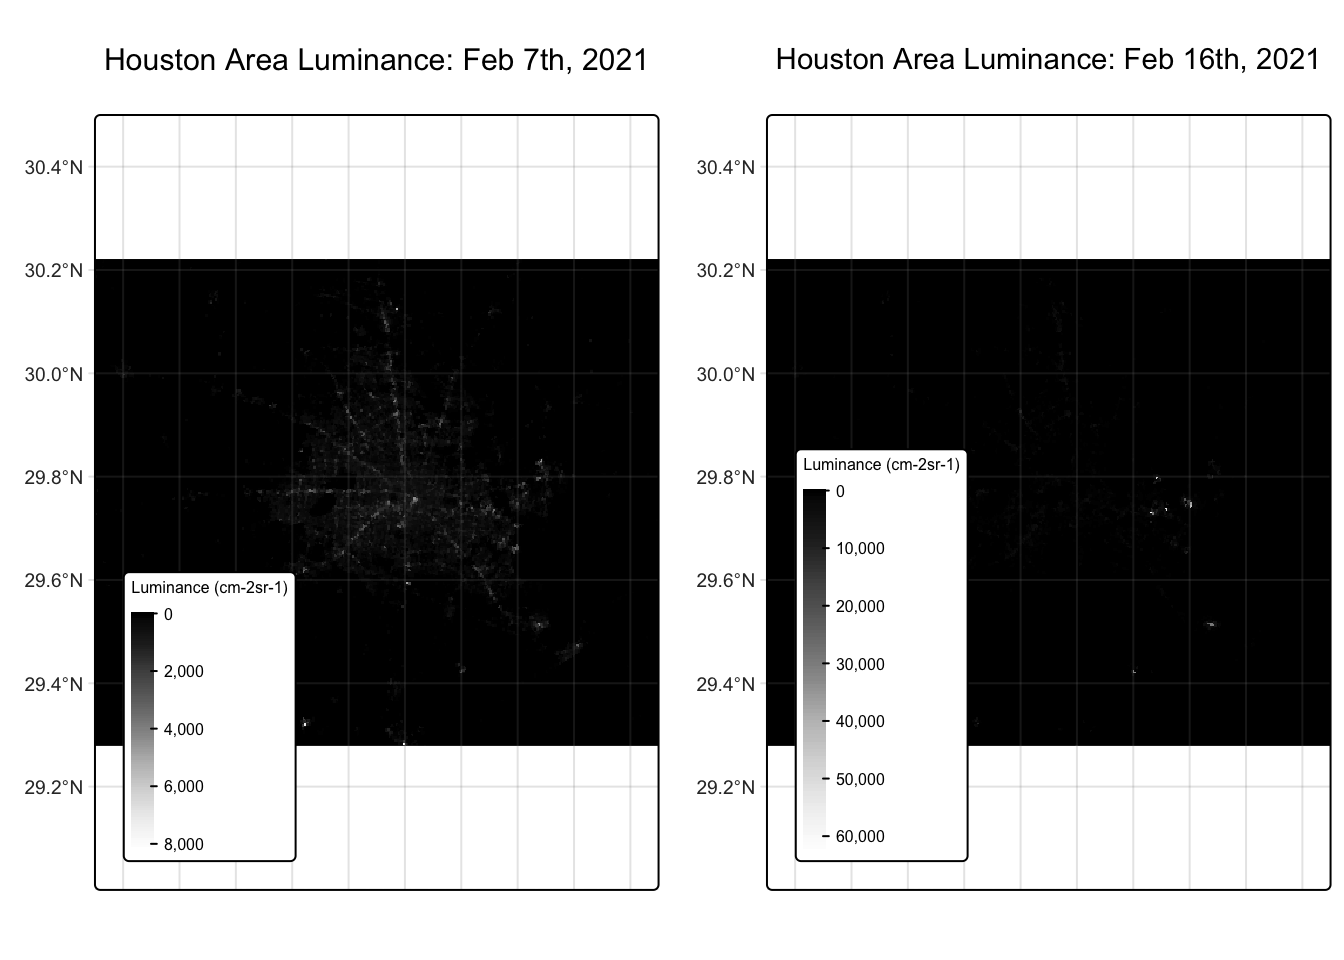
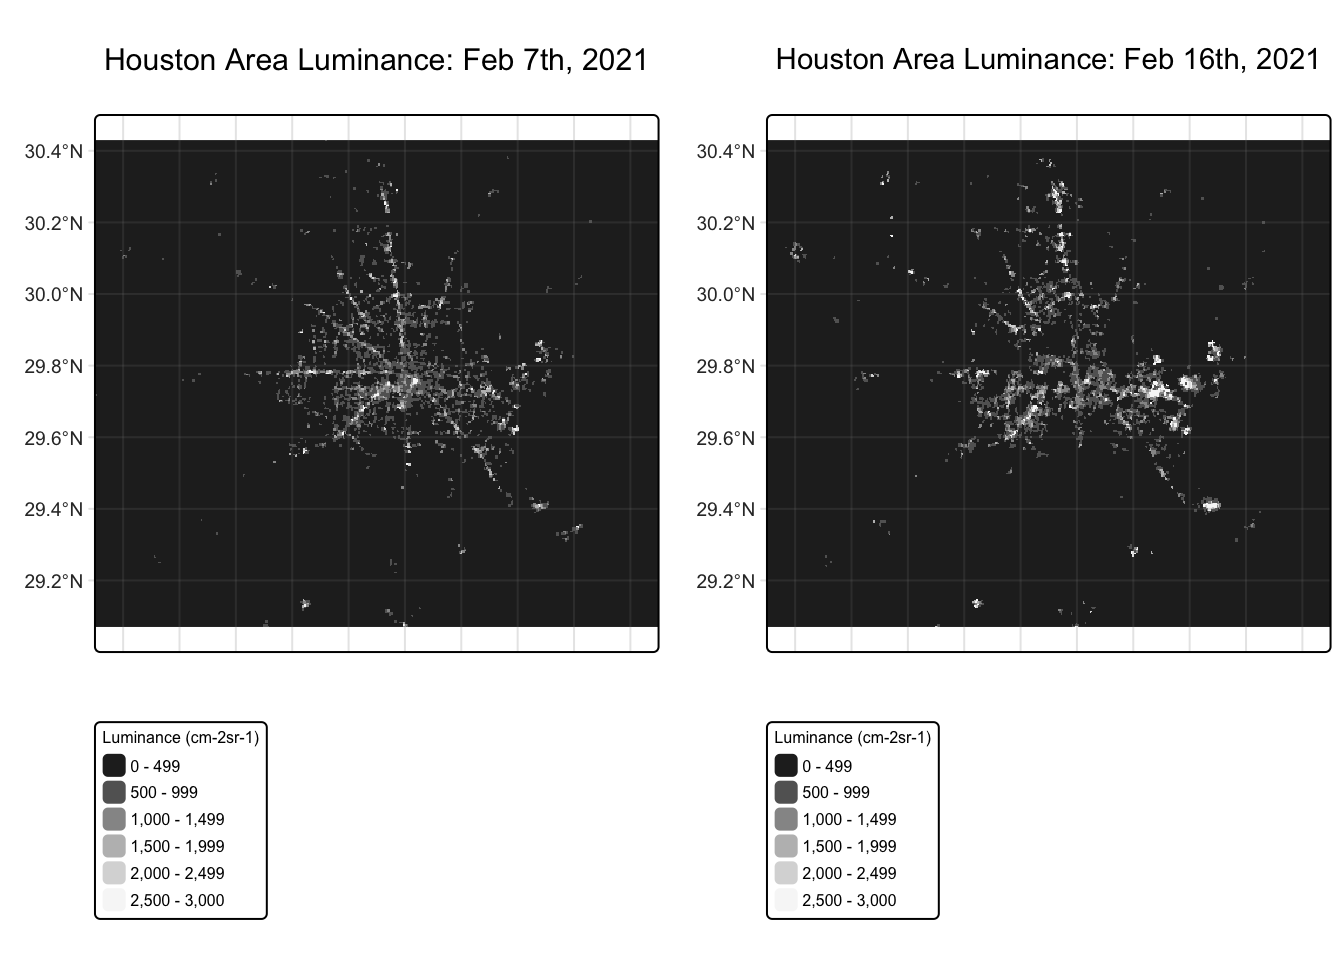
Edits for 223 blog post

diff --git a/docs/posts/2025-12-01-eds223/index.html b/docs/posts/2025-12-01-eds223/index.html
@@ -300,33 +300,32 @@ div.csl-indent {
 <div class="cell">
 <details class="code-fold">
 <summary>Code</summary>
-<div class="code-copy-outer-scaffold"><div class="sourceCode cell-code" id="cb3"><pre class="sourceCode r code-with-copy"><code class="sourceCode r"><span id="cb3-1"><a href="#cb3-1" aria-hidden="true" tabindex="-1"></a><span class="co"># Create plot of Feb 7th light raster- before storm</span></span>
-<span id="cb3-2"><a href="#cb3-2" aria-hidden="true" tabindex="-1"></a>before_lights <span class="ot">&lt;-</span> <span class="fu">tm_shape</span>(lights_2021_02_07) <span class="sc">+</span></span>
-<span id="cb3-3"><a href="#cb3-3" aria-hidden="true" tabindex="-1"></a>  <span class="fu">tm_raster</span>(<span class="at">col.scale =</span> tmap<span class="sc">::</span><span class="fu">tm_scale_continuous</span>(</span>
-<span id="cb3-4"><a href="#cb3-4" aria-hidden="true" tabindex="-1"></a>    <span class="at">values =</span> <span class="st">"-brewer.Greys"</span>),</span>
-<span id="cb3-5"><a href="#cb3-5" aria-hidden="true" tabindex="-1"></a>    <span class="at">col.legend =</span> tmap<span class="sc">::</span><span class="fu">tm_legend</span>(</span>
-<span id="cb3-6"><a href="#cb3-6" aria-hidden="true" tabindex="-1"></a>      <span class="at">title =</span> <span class="st">"Luminance (cm-2sr-1)"</span>,</span>
-<span id="cb3-7"><a href="#cb3-7" aria-hidden="true" tabindex="-1"></a>      <span class="at">position =</span> tmap<span class="sc">::</span><span class="fu">tm_pos_in</span>(<span class="st">"left"</span>, <span class="st">"bottom"</span>))</span>
-<span id="cb3-8"><a href="#cb3-8" aria-hidden="true" tabindex="-1"></a>    ) <span class="sc">+</span></span>
-<span id="cb3-9"><a href="#cb3-9" aria-hidden="true" tabindex="-1"></a>  <span class="fu">tm_title</span>(<span class="at">text =</span> <span class="st">"Houston Area Luminance: Feb 7th, 2021"</span>) <span class="sc">+</span></span>
-<span id="cb3-10"><a href="#cb3-10" aria-hidden="true" tabindex="-1"></a>  <span class="fu">tm_layout</span>(<span class="at">legend.text.size =</span> <span class="fl">0.5</span>,</span>
-<span id="cb3-11"><a href="#cb3-11" aria-hidden="true" tabindex="-1"></a>            <span class="at">legend.title.size =</span> <span class="fl">0.5</span>) <span class="sc">+</span></span>
-<span id="cb3-12"><a href="#cb3-12" aria-hidden="true" tabindex="-1"></a>  <span class="fu">tm_graticules</span>(<span class="at">alpha =</span> <span class="fl">0.2</span>) </span>
-<span id="cb3-13"><a href="#cb3-13" aria-hidden="true" tabindex="-1"></a></span>
-<span id="cb3-14"><a href="#cb3-14" aria-hidden="true" tabindex="-1"></a><span class="co"># Create plot of Feb 16th light raster- after storm</span></span>
-<span id="cb3-15"><a href="#cb3-15" aria-hidden="true" tabindex="-1"></a>after_lights <span class="ot">&lt;-</span> <span class="fu">tm_shape</span>(lights_2021_02_16) <span class="sc">+</span></span>
-<span id="cb3-16"><a href="#cb3-16" aria-hidden="true" tabindex="-1"></a>  <span class="fu">tm_raster</span>(<span class="at">col.scale =</span> tmap<span class="sc">::</span><span class="fu">tm_scale_continuous</span>(</span>
-<span id="cb3-17"><a href="#cb3-17" aria-hidden="true" tabindex="-1"></a>    <span class="at">values =</span> <span class="st">"-brewer.Greys"</span>),</span>
-<span id="cb3-18"><a href="#cb3-18" aria-hidden="true" tabindex="-1"></a>    <span class="at">col.legend =</span> tmap<span class="sc">::</span><span class="fu">tm_legend</span>(</span>
-<span id="cb3-19"><a href="#cb3-19" aria-hidden="true" tabindex="-1"></a>      <span class="at">title =</span> <span class="st">"Luminance (cm-2sr-1)"</span>,</span>
-<span id="cb3-20"><a href="#cb3-20" aria-hidden="true" tabindex="-1"></a>      <span class="at">position =</span> tmap<span class="sc">::</span><span class="fu">tm_pos_in</span>(<span class="st">"left"</span>, <span class="st">"bottom"</span>))</span>
-<span id="cb3-21"><a href="#cb3-21" aria-hidden="true" tabindex="-1"></a>    ) <span class="sc">+</span></span>
-<span id="cb3-22"><a href="#cb3-22" aria-hidden="true" tabindex="-1"></a>  <span class="fu">tm_title</span>(<span class="at">text =</span> <span class="st">"Houston Area Luminance: Feb 16th, 2021"</span>) <span class="sc">+</span></span>
-<span id="cb3-23"><a href="#cb3-23" aria-hidden="true" tabindex="-1"></a>  <span class="fu">tm_layout</span>(<span class="at">legend.text.size =</span> <span class="fl">0.5</span>,</span>
-<span id="cb3-24"><a href="#cb3-24" aria-hidden="true" tabindex="-1"></a>            <span class="at">legend.title.size =</span> <span class="fl">0.5</span>) <span class="sc">+</span></span>
-<span id="cb3-25"><a href="#cb3-25" aria-hidden="true" tabindex="-1"></a>  <span class="fu">tm_graticules</span>(<span class="at">alpha =</span> <span class="fl">0.2</span>) </span>
-<span id="cb3-26"><a href="#cb3-26" aria-hidden="true" tabindex="-1"></a></span>
-<span id="cb3-27"><a href="#cb3-27" aria-hidden="true" tabindex="-1"></a><span class="fu">tmap_arrange</span>(before_lights, after_lights)</span></code></pre></div><button title="Copy to Clipboard" class="code-copy-button"><i class="bi"></i></button></div>
+<div class="code-copy-outer-scaffold"><div class="sourceCode cell-code" id="cb3"><pre class="sourceCode r code-with-copy"><code class="sourceCode r"><span id="cb3-1"><a href="#cb3-1" aria-hidden="true" tabindex="-1"></a><span class="co"># Create manual breaks for clearer differences</span></span>
+<span id="cb3-2"><a href="#cb3-2" aria-hidden="true" tabindex="-1"></a>breaks <span class="ot">&lt;-</span> <span class="fu">c</span>(<span class="dv">0</span>, <span class="dv">500</span>, <span class="dv">1000</span>, <span class="dv">1500</span>, <span class="dv">2000</span>, <span class="dv">2500</span>, <span class="dv">3000</span>)</span>
+<span id="cb3-3"><a href="#cb3-3" aria-hidden="true" tabindex="-1"></a></span>
+<span id="cb3-4"><a href="#cb3-4" aria-hidden="true" tabindex="-1"></a><span class="co"># Create plot of Feb 7th light raster- before storm</span></span>
+<span id="cb3-5"><a href="#cb3-5" aria-hidden="true" tabindex="-1"></a>before_lights <span class="ot">&lt;-</span> <span class="fu">tm_shape</span>(lights_2021_02_07) <span class="sc">+</span></span>
+<span id="cb3-6"><a href="#cb3-6" aria-hidden="true" tabindex="-1"></a>  <span class="fu">tm_raster</span>(<span class="at">palette =</span> <span class="st">"-Greys"</span>,</span>
+<span id="cb3-7"><a href="#cb3-7" aria-hidden="true" tabindex="-1"></a>            <span class="at">breaks =</span> breaks,</span>
+<span id="cb3-8"><a href="#cb3-8" aria-hidden="true" tabindex="-1"></a>            <span class="at">title =</span> <span class="st">"Luminance (cm-2sr-1)"</span></span>
+<span id="cb3-9"><a href="#cb3-9" aria-hidden="true" tabindex="-1"></a>    ) <span class="sc">+</span></span>
+<span id="cb3-10"><a href="#cb3-10" aria-hidden="true" tabindex="-1"></a>  <span class="fu">tm_title</span>(<span class="at">text =</span> <span class="st">"Houston Area Luminance: Feb 7th, 2021"</span>) <span class="sc">+</span></span>
+<span id="cb3-11"><a href="#cb3-11" aria-hidden="true" tabindex="-1"></a>  <span class="fu">tm_layout</span>(<span class="at">legend.text.size =</span> <span class="fl">0.5</span>,</span>
+<span id="cb3-12"><a href="#cb3-12" aria-hidden="true" tabindex="-1"></a>            <span class="at">legend.title.size =</span> <span class="fl">0.5</span>) <span class="sc">+</span></span>
+<span id="cb3-13"><a href="#cb3-13" aria-hidden="true" tabindex="-1"></a>  <span class="fu">tm_graticules</span>(<span class="at">alpha =</span> <span class="fl">0.2</span>)</span>
+<span id="cb3-14"><a href="#cb3-14" aria-hidden="true" tabindex="-1"></a></span>
+<span id="cb3-15"><a href="#cb3-15" aria-hidden="true" tabindex="-1"></a><span class="co"># Create plot of Feb 16th light raster- after storm</span></span>
+<span id="cb3-16"><a href="#cb3-16" aria-hidden="true" tabindex="-1"></a>after_lights <span class="ot">&lt;-</span> <span class="fu">tm_shape</span>(lights_2021_02_16) <span class="sc">+</span></span>
+<span id="cb3-17"><a href="#cb3-17" aria-hidden="true" tabindex="-1"></a>  <span class="fu">tm_raster</span>(<span class="at">palette =</span> <span class="st">"-Greys"</span>,</span>
+<span id="cb3-18"><a href="#cb3-18" aria-hidden="true" tabindex="-1"></a>            <span class="at">breaks =</span> breaks,</span>
+<span id="cb3-19"><a href="#cb3-19" aria-hidden="true" tabindex="-1"></a>            <span class="at">title =</span> <span class="st">"Luminance (cm-2sr-1)"</span></span>
+<span id="cb3-20"><a href="#cb3-20" aria-hidden="true" tabindex="-1"></a>    ) <span class="sc">+</span></span>
+<span id="cb3-21"><a href="#cb3-21" aria-hidden="true" tabindex="-1"></a>  <span class="fu">tm_title</span>(<span class="at">text =</span> <span class="st">"Houston Area Luminance: Feb 16th, 2021"</span>) <span class="sc">+</span></span>
+<span id="cb3-22"><a href="#cb3-22" aria-hidden="true" tabindex="-1"></a>  <span class="fu">tm_layout</span>(<span class="at">legend.text.size =</span> <span class="fl">0.5</span>,</span>
+<span id="cb3-23"><a href="#cb3-23" aria-hidden="true" tabindex="-1"></a>            <span class="at">legend.title.size =</span> <span class="fl">0.5</span>) <span class="sc">+</span></span>
+<span id="cb3-24"><a href="#cb3-24" aria-hidden="true" tabindex="-1"></a>  <span class="fu">tm_graticules</span>(<span class="at">alpha =</span> <span class="fl">0.2</span>) </span>
+<span id="cb3-25"><a href="#cb3-25" aria-hidden="true" tabindex="-1"></a></span>
+<span id="cb3-26"><a href="#cb3-26" aria-hidden="true" tabindex="-1"></a><span class="fu">tmap_arrange</span>(before_lights, after_lights)</span></code></pre></div><button title="Copy to Clipboard" class="code-copy-button"><i class="bi"></i></button></div>
 </details>
 <div class="cell-output-display">
 <div>
@@ -573,6 +572,7 @@ div.csl-indent {
 </section>
 <section id="distribution-of-median-household-income-and-blackout-impact" class="level2">
 <h2 class="anchored" data-anchor-id="distribution-of-median-household-income-and-blackout-impact">6. Distribution of median household income and blackout impact</h2>
+<p>After identifying which census tracts experienced blackouts during the winter storms and which did not, we can connect information about the estimated median income for each census tract. This will allow us to see whether or not there was a disproportionate effect.</p>
 <div class="cell">
 <details class="code-fold">
 <summary>Code</summary>

diff --git a/docs/posts.html b/docs/posts.html
@@ -237,7 +237,7 @@ Dec 11, 2025
 </div>
 </div></a>
 </div>
-<div class="g-col-1" data-index="1" data-categories="TUVEUyUyQ1I=" data-listing-date-sort="1765000800000" data-listing-file-modified-sort="1765081508776" data-listing-date-modified-sort="NaN" data-listing-reading-time-sort="13" data-listing-word-count-sort="2423">
+<div class="g-col-1" data-index="1" data-categories="TUVEUyUyQ1I=" data-listing-date-sort="1765000800000" data-listing-file-modified-sort="1765492120426" data-listing-date-modified-sort="NaN" data-listing-reading-time-sort="13" data-listing-word-count-sort="2477">
 <a href="./posts/2025-12-01-eds223/index.html" class="quarto-grid-link">
 <div class="quarto-grid-item card h-100 card-left">
 <p class="card-img-top">
